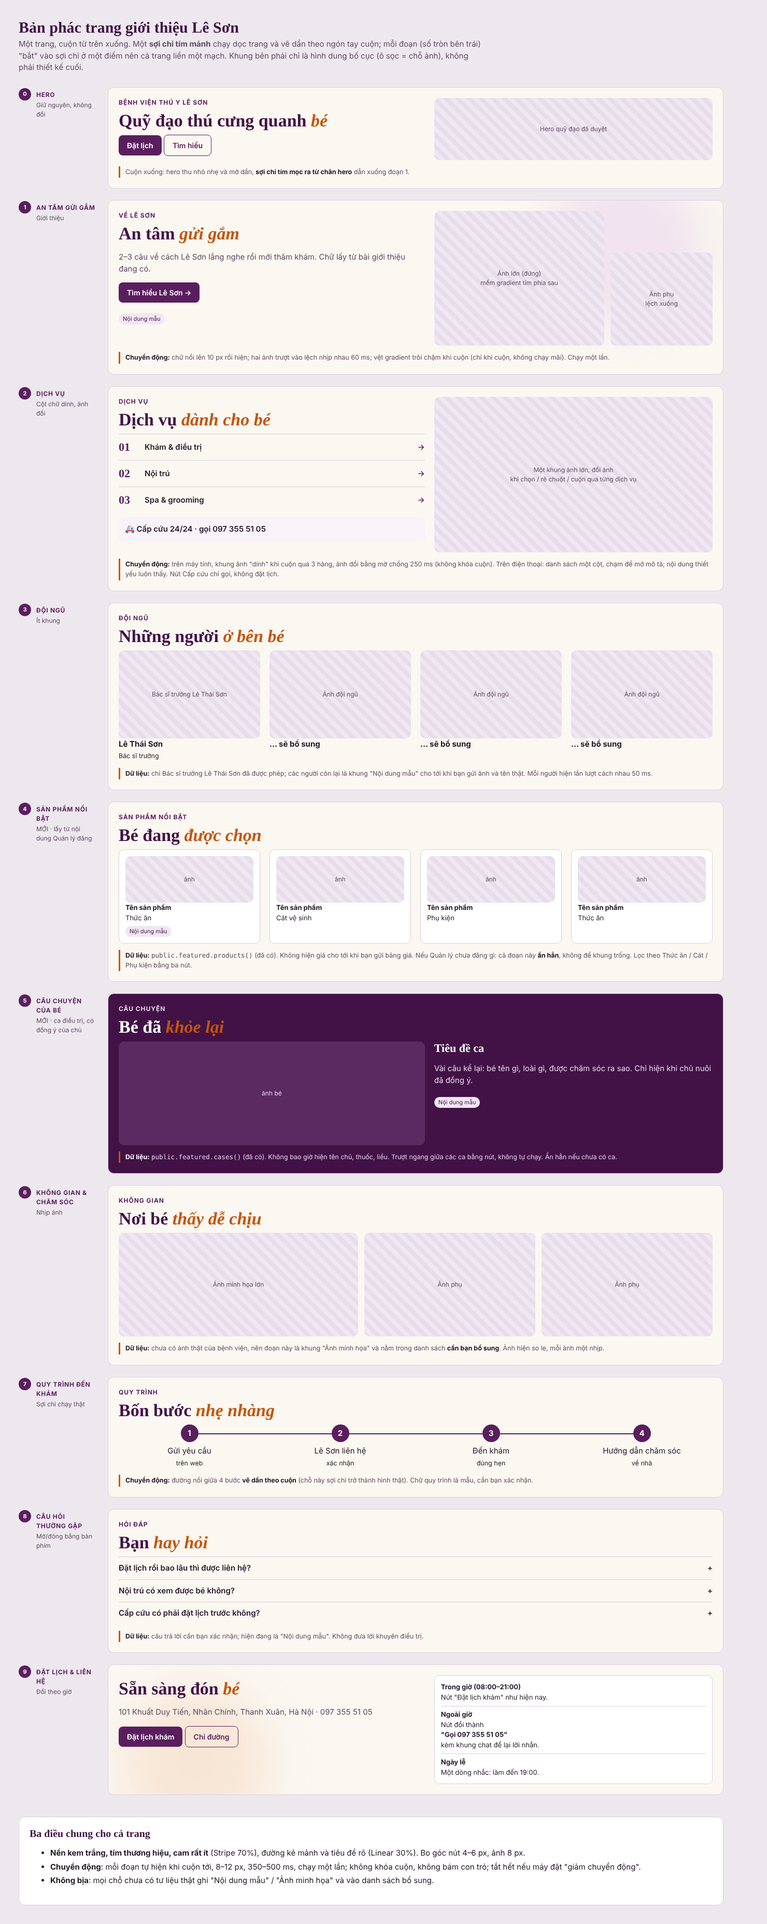
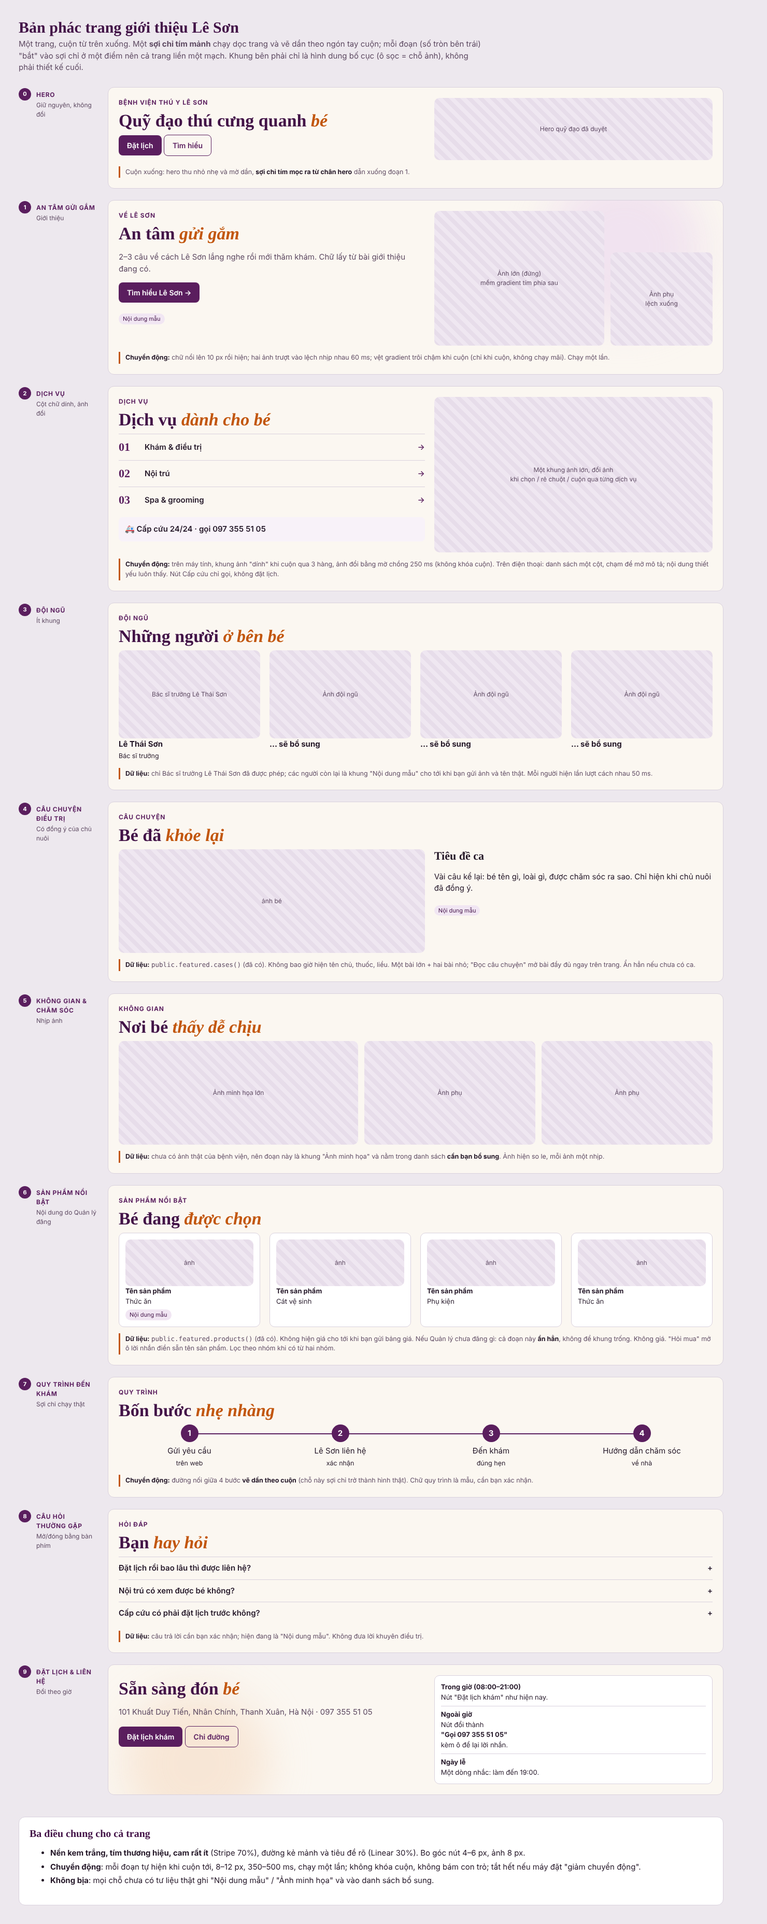
docs: part 6 intro website design and updated storyboard
Claude-Session: https://claude.ai/code/session_013xgtFbNtYrgX8b1A7NpkL4

diff --git a/docs/tham-khao/storyboard/storyboard.html b/docs/tham-khao/storyboard/storyboard.html
@@ -54,20 +54,20 @@ h1{font:600 30px Lora,Georgia,serif;margin:0 0 4px;color:var(--plum9)}.sub{color
 <div class="grid g4"><div><div class="ph" style="min-height:170px">Bác sĩ trưởng Lê Thái Sơn</div><b>Lê Thái Sơn</b><br><small>Bác sĩ trưởng</small></div><div><div class="ph" style="min-height:170px">Ảnh đội ngũ</div><b>… sẽ bổ sung</b></div><div><div class="ph" style="min-height:170px">Ảnh đội ngũ</div><b>… sẽ bổ sung</b></div><div><div class="ph" style="min-height:170px">Ảnh đội ngũ</div><b>… sẽ bổ sung</b></div></div>
 <div class="note"><b>Dữ liệu:</b> chỉ Bác sĩ trưởng Lê Thái Sơn đã được phép; các người còn lại là khung "Nội dung mẫu" cho tới khi bạn gửi ảnh và tên thật. Mỗi người hiện lần lượt cách nhau 50 ms.</div></div></div>
 
-<div class="beat"><div class="tag" data-n="4">Sản phẩm nổi bật<small>MỚI · lấy từ nội dung Quản lý đăng</small></div>
-<div class="panel"><div class="eyebrow">Sản phẩm nổi bật</div><div class="h">Bé đang <em>được chọn</em></div>
-<div class="grid g4"><div class="mini"><div class="ph" style="min-height:90px">ảnh</div><b>Tên sản phẩm</b>Thức ăn<br><span class="sample">Nội dung mẫu</span></div><div class="mini"><div class="ph" style="min-height:90px">ảnh</div><b>Tên sản phẩm</b>Cát vệ sinh</div><div class="mini"><div class="ph" style="min-height:90px">ảnh</div><b>Tên sản phẩm</b>Phụ kiện</div><div class="mini"><div class="ph" style="min-height:90px">ảnh</div><b>Tên sản phẩm</b>Thức ăn</div></div>
-<div class="note"><b>Dữ liệu:</b> <code>public.featured.products()</code> (đã có). Không hiện giá cho tới khi bạn gửi bảng giá. Nếu Quản lý chưa đăng gì: cả đoạn này <b>ẩn hẳn</b>, không để khung trống. Lọc theo Thức ăn / Cát / Phụ kiện bằng ba nút.</div></div></div>
+<div class="beat"><div class="tag" data-n="4">Câu chuyện điều trị<small>Có đồng ý của chủ nuôi</small></div>
+<div class="panel"><div class="eyebrow" >Câu chuyện</div><div class="h" >Bé đã <em>khỏe lại</em></div>
+<div class="grid g2"><div class="ph" style="min-height:200px;">ảnh bé</div><div><b style="font:600 22px Lora,serif">Tiêu đề ca</b><p >Vài câu kể lại: bé tên gì, loài gì, được chăm sóc ra sao. Chỉ hiện khi chủ nuôi đã đồng ý.</p><span class="sample">Nội dung mẫu</span></div></div>
+<div class="note" ><b >Dữ liệu:</b> <code>public.featured.cases()</code> (đã có). Không bao giờ hiện tên chủ, thuốc, liều. Một bài lớn + hai bài nhỏ; "Đọc câu chuyện" mở bài đầy đủ ngay trên trang. Ẩn hẳn nếu chưa có ca.</div></div></div>
 
-<div class="beat"><div class="tag" data-n="5">Câu chuyện của bé<small>MỚI · ca điều trị, có đồng ý của chủ</small></div>
-<div class="panel dark"><div class="eyebrow" style="color:#E9D3EE">Câu chuyện</div><div class="h" style="color:#fff">Bé đã <em>khỏe lại</em></div>
-<div class="grid g2"><div class="ph" style="min-height:200px;background:#5b2a60;color:#E9D3EE">ảnh bé</div><div><b style="font:600 22px Lora,serif">Tiêu đề ca</b><p style="color:#E9D3EE">Vài câu kể lại: bé tên gì, loài gì, được chăm sóc ra sao. Chỉ hiện khi chủ nuôi đã đồng ý.</p><span class="sample">Nội dung mẫu</span></div></div>
-<div class="note" style="color:#E9D3EE"><b style="color:#fff">Dữ liệu:</b> <code>public.featured.cases()</code> (đã có). Không bao giờ hiện tên chủ, thuốc, liều. Trượt ngang giữa các ca bằng nút, không tự chạy. Ẩn hẳn nếu chưa có ca.</div></div></div>
-
-<div class="beat"><div class="tag" data-n="6">Không gian &amp; chăm sóc<small>Nhịp ảnh</small></div>
+<div class="beat"><div class="tag" data-n="5">Không gian &amp; chăm sóc<small>Nhịp ảnh</small></div>
 <div class="panel"><div class="eyebrow">Không gian</div><div class="h">Nơi bé <em>thấy dễ chịu</em></div>
 <div style="display:grid;grid-template-columns:1.4fr 1fr 1fr;gap:12px"><div class="ph" style="min-height:200px">Ảnh minh họa lớn</div><div class="ph">Ảnh phụ</div><div class="ph">Ảnh phụ</div></div>
 <div class="note"><b>Dữ liệu:</b> chưa có ảnh thật của bệnh viện, nên đoạn này là khung "Ảnh minh họa" và nằm trong danh sách <b>cần bạn bổ sung</b>. Ảnh hiện so le, mỗi ảnh một nhịp.</div></div></div>
+
+<div class="beat"><div class="tag" data-n="6">Sản phẩm nổi bật<small>Nội dung do Quản lý đăng</small></div>
+<div class="panel"><div class="eyebrow">Sản phẩm nổi bật</div><div class="h">Bé đang <em>được chọn</em></div>
+<div class="grid g4"><div class="mini"><div class="ph" style="min-height:90px">ảnh</div><b>Tên sản phẩm</b>Thức ăn<br><span class="sample">Nội dung mẫu</span></div><div class="mini"><div class="ph" style="min-height:90px">ảnh</div><b>Tên sản phẩm</b>Cát vệ sinh</div><div class="mini"><div class="ph" style="min-height:90px">ảnh</div><b>Tên sản phẩm</b>Phụ kiện</div><div class="mini"><div class="ph" style="min-height:90px">ảnh</div><b>Tên sản phẩm</b>Thức ăn</div></div>
+<div class="note"><b>Dữ liệu:</b> <code>public.featured.products()</code> (đã có). Không hiện giá cho tới khi bạn gửi bảng giá. Nếu Quản lý chưa đăng gì: cả đoạn này <b>ẩn hẳn</b>, không để khung trống. Không giá. "Hỏi mua" mở ô lời nhắn điền sẵn tên sản phẩm. Lọc theo nhóm khi có từ hai nhóm.</div></div></div>
 
 <div class="beat"><div class="tag" data-n="7">Quy trình đến khám<small>Sợi chỉ chạy thật</small></div>
 <div class="panel"><div class="eyebrow">Quy trình</div><div class="h">Bốn bước <em>nhẹ nhàng</em></div>
@@ -82,7 +82,7 @@ h1{font:600 30px Lora,Georgia,serif;margin:0 0 4px;color:var(--plum9)}.sub{color
 <div class="beat"><div class="tag" data-n="9">Đặt lịch &amp; liên hệ<small>Đổi theo giờ</small></div>
 <div class="panel"><div class="blob" style="width:280px;height:280px;background:#F5D9C0;left:30px;bottom:-80px"></div>
 <div class="grid g2"><div><div class="h">Sẵn sàng đón <em>bé</em></div><p style="color:var(--ink6)">101 Khuất Duy Tiến, Nhân Chính, Thanh Xuân, Hà Nội · 097 355 51 05</p><span class="btn">Đặt lịch khám</span> <span class="btn ghost">Chỉ đường</span></div>
-<div class="mini"><b>Trong giờ (08:00–21:00)</b>Nút "Đặt lịch khám" như hiện nay.<hr style="border:0;border-top:1px solid var(--line)"><b>Ngoài giờ</b>Nút đổi thành <b>"Gọi 097 355 51 05"</b> kèm khung chat để lại lời nhắn.<hr style="border:0;border-top:1px solid var(--line)"><b>Ngày lễ</b>Một dòng nhắc: làm đến 19:00.</div></div></div></div>
+<div class="mini"><b>Trong giờ (08:00–21:00)</b>Nút "Đặt lịch khám" như hiện nay.<hr style="border:0;border-top:1px solid var(--line)"><b>Ngoài giờ</b>Nút đổi thành <b>"Gọi 097 355 51 05"</b> kèm ô để lại lời nhắn.<hr style="border:0;border-top:1px solid var(--line)"><b>Ngày lễ</b>Một dòng nhắc: làm đến 19:00.</div></div></div></div>
 
 </div>
 <div class="legend"><h2>Ba điều chung cho cả trang</h2><ul><li><b>Nền kem trắng, tím thương hiệu, cam rất ít</b> (Stripe 70%), đường kẻ mảnh và tiêu đề rõ (Linear 30%). Bo góc nút 4–6 px, ảnh 8 px.</li><li><b>Chuyển động</b>: mỗi đoạn tự hiện khi cuộn tới, 8–12 px, 350–500 ms, chạy một lần; không khóa cuộn, không bám con trỏ; tắt hết nếu máy đặt "giảm chuyển động".</li><li><b>Không bịa</b>: mọi chỗ chưa có tư liệu thật ghi "Nội dung mẫu" / "Ảnh minh họa" và vào danh sách bổ sung.</li></ul></div>

diff --git a/docs/superpowers/specs/2026-10-22-phan-6-trang-gioi-thieu-design.md b/docs/superpowers/specs/2026-10-22-phan-6-trang-gioi-thieu-design.md
@@ -1,0 +1,97 @@
+# Phần 6 — Làm lại trang giới thiệu (thiết kế)
+
+Ngày: 22/10/2026 · Nhánh: `claude/giao-dien` · Trạng thái: **chờ chủ dự án duyệt bản viết**.
+
+Nguồn quyết định: R43 (hướng thiết kế), `docs/tham-khao/prompt-thiet-ke-web-gioi-thieu-2026-10-21.md`, tệp tư vấn `Loi_khuyen_thiet_ke_web_Le_Son.md` (22/10), bản phác `docs/tham-khao/storyboard/storyboard.png`, và các câu trả lời của chủ dự án ngày 22/10 (mục 2).
+
+## 1. Mục tiêu
+
+Một trang giới thiệu cuộn từ hero xuống, **kể một câu chuyện liền mạch**: bệnh viện là ai, làm gì, ai chăm bé, bé đã được chăm thế nào, bước tiếp theo là gì. Phong cách Stripe 70% + Linear 30%; chuyển động tinh tế; không bịa tư liệu.
+
+Hero hiện tại giữ nguyên (logo, route, chức năng). Không sửa khu khách và khu nhân viên.
+
+## 2. Quyết định đã chốt (chủ dự án, 22/10/2026)
+
+1. Kiểu **scrollytelling**, không khóa cuộn.
+2. **Một màu nền cho cả trang** (không có đoạn nền tím đậm). Chỉ **một quầng tím rất nhạt sau ảnh chính ở đoạn "An tâm gửi gắm"** và **sợi chỉ tím mảnh** nối các đoạn; không có quầng màu ở nơi khác.
+3. Thứ tự: Hero → Giới thiệu → Dịch vụ → Đội ngũ → Câu chuyện điều trị → Không gian → Sản phẩm nổi bật → Quy trình → Hỏi đáp → Đặt lịch và liên hệ.
+4. **Sản phẩm nổi bật** (không phải "bán chạy"): không hiện giá, không nhãn bán chạy; nút **Hỏi mua** mở ô để lại lời nhắn có sẵn "Hỏi mua: <tên>".
+5. **Câu chuyện điều trị**: ba bài (một lớn, hai nhỏ); **Đọc câu chuyện** mở bài đầy đủ ngay trên trang; chưa có trang danh sách, chưa có ngày đăng và mốc cập nhật (đợt sau).
+6. **Khung chat ngoài giờ** là ô để lại lời nhắn (tên, số điện thoại, nội dung) gửi thành yêu cầu liên hệ cho nhân viên; không chat trực tiếp.
+7. **Màn "Nội dung trang giới thiệu" cho Quản lý** (đăng sản phẩm và câu chuyện) làm **sau trang công khai và trước khi gửi HTML** (lựa chọn A). Gửi HTML một lần, một tệp, khi xong cả hai.
+
+## 3. Phạm vi và chia đợt
+
+| Đợt | Nội dung | Phụ thuộc |
+|---|---|---|
+| **6A** | Trang công khai: nền chung, sợi chỉ, 9 đoạn, các thành phần dùng chung | Chỉ dữ liệu có sẵn (`public.featured.*`, `public.bookings.holidays`) |
+| **6B** | Đặt lịch ngoài giờ và ngày lễ: nút Gửi đổi thành nút gọi, ô để lại lời nhắn, ghi chú ngày lễ ở `/dat-lich` và `/khach-hang/dat-lich`; ô lời nhắn dùng cho "Hỏi mua" và cho cuối trang chủ | **Cần nhánh dữ liệu thêm API** (mục 7) |
+| **6C** | Màn "Nội dung trang giới thiệu" trong khu nhân viên (`content.publish`) | Dữ liệu đã có (`staff.content.*`) |
+| **6D** | Hộp thoại tải video nội trú: chữ theo 100 MB, phát 15 giây đầu, tự tắt tiếng | Dữ liệu đã có |
+
+Mỗi đợt có kế hoạch và kiểm tra riêng; 6A làm trước. **Không** làm trong phần 6: trang chi tiết câu chuyện/sản phẩm, "Xem tất cả", giỏ hàng, giá, nhãn bán chạy, phụ phí lễ, thanh gọi cố định trên đầu trang (đã đề xuất, chủ dự án chưa trả lời, giữ ngoài phạm vi).
+
+## 4. Ngôn ngữ thị giác (chỉ áp dụng cho phần mới của trang công khai)
+
+- Token riêng cho trang công khai mới (tiền tố `--pub-*` trong `src/styles/tokens.css`, dùng trong một lớp bọc `[data-pub]` chỉ gắn vào các đoạn mới) để **không đổi** hero, khu khách, khu nhân viên.
+  - Nền `#F2EFF3` · tím mận `#53165C` · chữ `#291D34` · chữ phụ `#675E6D` (kiểm tra ≥ 4,5:1 trên nền) · đường kẻ `#D9D1DD` · bề mặt phụ `#FAF8FB` · cam `#C95B0A` rất ít.
+- Chữ: Lora cho tiêu đề giàu cảm xúc (32–40 px máy tính, 26–30 px điện thoại, có chữ nghiêng cam cho từ nhấn); Be Vietnam Pro cho phần còn lại (nội dung 16–18 px, tối thiểu 16 px trên điện thoại); nhãn IN HOA đậm giãn chữ ≤ 0,08em; số luôn Be Vietnam Pro (`.num`).
+- Hình dạng: **nút 4–6 px, ảnh 0–8 px**; hạn chế nút bầu dục, thẻ lồng thẻ, bóng. Phẳng, đường kẻ mảnh, số thứ tự 01–03.
+- Icon: Phosphor Duotone như hiện tại, ít, chỉ chức năng. Ảnh thật quan trọng hơn icon.
+- Kính mờ: tối đa **một chú thích trên ảnh chính** của đoạn Giới thiệu (và có nền đặc thay thế khi không hỗ trợ blur). Không đặt chữ quan trọng lên kính.
+- Khoảng cách: container ≤ 1200 px; lề 16–20 px điện thoại, 24–40 px máy tính; giữa các đoạn 72–96 px máy tính, 40–56 px điện thoại.
+
+## 5. Chuyển động
+
+- Mỗi đoạn tự hiện khi vào màn hình, chạy **một lần**: mờ dần + dịch 8–12 px, 350–500 ms; nhóm nhỏ lệch 40–70 ms; không đợi đoạn trước. Dùng `preset('enterList')` hiện có khi vừa, thêm preset mới trong `src/ui/motion.ts` khi cần (có test).
+- **Sợi chỉ**: một đường mảnh dọc trang vẽ dần theo vị trí cuộn (`useScroll` + độ dài đường), mỗi đoạn "bắt" vào sợi chỉ ở nhãn tiêu đề. Trên điện thoại là đường mảnh sát lề trái; nếu quá chật thì ẩn, nội dung không phụ thuộc vào nó. Ở đoạn Quy trình, đường nối 4 bước vẽ theo cuộn.
+- Quầng tím nhạt sau ảnh chính trôi rất chậm **chỉ khi cuộn** (không chạy nền liên tục).
+- Hover/focus hàng dịch vụ 150–200 ms (nền đổi, mũi tên dịch 3–4 px); ảnh dịch vụ đổi bằng chồng mờ 200–300 ms; FAQ mở/đóng 180–250 ms.
+- Không băng chuyền tự chạy, không hiệu ứng bám con trỏ, không đếm số tăng dần, không nút nhấp nháy.
+- `prefers-reduced-motion` (và tùy chọn "Luôn giảm"): bỏ dịch chuyển, bỏ lệch nhịp, bỏ sợi chỉ vẽ dần (hiện sẵn đầy đủ), ảnh đổi tức thì; nội dung vẫn đọc được. Nội dung **không bao giờ ẩn mặc định** nếu script lỗi.
+
+## 6. Từng đoạn (6A)
+
+Mọi đoạn là một `<section>` có `aria-labelledby`, một `h2`, nhãn IN HOA ngắn. Neo cuộn hiện có (`/gioi-thieu`, `/dich-vu`, `/lien-he`) giữ nguyên; thêm neo cho đoạn mới nhưng **không thêm route rỗng**. Thanh điều hướng đánh dấu mục hiện tại theo đoạn đang xem (mở rộng `useActiveSection`).
+
+1. **Giới thiệu "An tâm gửi gắm"** (`#gioi-thieu`). Máy tính chia 5/7: nhãn VỀ LÊ SƠN, tiêu đề, 2–3 câu (lấy từ chữ đang có), nút "Tìm hiểu Lê Sơn →" (cuộn tới Dịch vụ), ghi "Nội dung mẫu". Bên phải ảnh lớn đứng + ảnh phụ lệch xuống, hai khoảnh khắc khác nhau (dùng ảnh minh họa có sẵn, ghi "Ảnh minh họa"); một chú thích kính mờ ngắn. Điện thoại: một cột, chữ → nút → ảnh; ảnh phụ bỏ nếu kéo dài trang.
+2. **Dịch vụ** (`#dich-vu`). Danh sách đánh số 01 Khám & điều trị · 02 Nội trú · 03 Spa & grooming: tên, mô tả một câu, mũi tên, ngăn bằng đường kẻ. Máy tính: danh sách trái, **một khung ảnh dính** phải, đổi ảnh khi chọn/rê/focus (không tự điều hướng khi chỉ focus). Mũi tên là liên kết tới `/dat-lich?dich-vu=<khóa>` (như hiện tại). Điện thoại: một cột, chạm một hàng để mở mô tả và ba mục con; tên và mô tả luôn thấy. Dải **Cấp cứu 24/24** giữ như hiện tại (chỉ nút gọi, không đặt lịch), tách khỏi "giờ khám 08:00–21:00".
+3. **Đội ngũ** (`#doi-ngu`). Bác sĩ trưởng Lê Thái Sơn (ảnh thật, chữ đã duyệt). Các vị trí khác là khung "Nội dung mẫu" cho tới khi có ảnh và tên thật; không tạo tên, bằng cấp.
+4. **Câu chuyện điều trị** (`#cau-chuyen`). Dữ liệu `public.featured.cases()`. Nhãn CÂU CHUYỆN ĐIỀU TRỊ, tiêu đề "Mỗi hành trình, một sự đồng hành." Máy tính: bài đầu chiếm ~2/3, hai bài sau xếp dọc; điện thoại một cột. Mỗi bài: ảnh, tiêu đề, 2–3 dòng đầu của nội dung, "Đọc câu chuyện". Có 1 hoặc 2 bài thì bố cục co lại; **0 bài thì cả đoạn ẩn** (kể cả khỏi sợi chỉ). Bấm "Đọc câu chuyện" mở **hộp thoại đọc** (đóng bằng Esc/nút, trả focus về nút đã bấm) với tiêu đề, nội dung đầy đủ, tên bé + loài, "Nội dung mẫu" khi `sample`. Không bao giờ hiện tên chủ, thuốc, liều, giờ tiêm. Không dùng ảnh do máy tạo làm bằng chứng cho ca thật.
+5. **Không gian & chăm sóc** (`#khong-gian`). Một ảnh chính và hai ảnh phụ so le, chú thích ngắn đúng nội dung ảnh. Chưa có ảnh thật nên dùng ảnh minh họa có sẵn, ghi "Ảnh minh họa", và đoạn này **nằm trong danh sách bạn cần bổ sung**.
+6. **Sản phẩm nổi bật** (`#san-pham`). Dữ liệu `public.featured.products()`; tối đa 6, bốn một hàng máy tính, hai cột điện thoại (một cột khi chữ rất lớn). Ảnh cùng tỷ lệ, nền sáng; tên, nhóm (Thức ăn / Cát vệ sinh / Phụ kiện), ghi chú; **không giá**. Ba nút lọc theo nhóm chỉ hiện khi có từ hai nhóm. **Hỏi mua** mở ô lời nhắn (6B) điền sẵn "Hỏi mua: <tên>"; khi 6B chưa có thì nút đổi thành gọi hotline. **0 sản phẩm thì ẩn cả đoạn.** Không giỏ hàng, không carousel.
+7. **Quy trình đến khám** (`#quy-trinh`). Bốn bước: Gửi yêu cầu → Lê Sơn liên hệ xác nhận → Đến khám → Hướng dẫn chăm sóc. Đường nối vẽ theo cuộn. Ghi "Nội dung mẫu" cho tới khi bạn xác nhận quy trình thật.
+8. **Hỏi đáp** (`#hoi-dap`). Accordion bằng `button` + `aria-expanded` + `aria-controls`, điều khiển bằng bàn phím; ba câu mẫu về đặt lịch, nội trú, cấp cứu; "Nội dung mẫu"; không lời khuyên điều trị.
+9. **Đặt lịch & liên hệ** (`#lien-he`, giữ neo). Địa chỉ, hotline, giờ **08:00–21:00** tách khỏi **Cấp cứu 24/24**, Chỉ đường, Facebook (nguyên văn như CLAUDE.md). **Theo giờ** (đồng hồ demo `system.now()`, ngày lễ từ `public.bookings.holidays()`): trong giờ → nút "Đặt lịch khám" (`/dat-lich`); ngoài giờ → "Gọi 097 355 51 05" cùng ô lời nhắn (6B); ngày lễ → một dòng "Hôm nay Lê Sơn làm đến 19:00". Hai nút **"Đặt lịch khám"** và **"Đăng nhập theo dõi bé"** khác tên, khác mục đích; lối vào cổng khách hiện (thay `AccountTeaser`) dễ thấy, tách khỏi nội dung giới thiệu.
+
+Sơ đồ minh họa vị trí hiện có (`MapArt`) giữ, đổi màu theo token mới.
+
+## 7. Dữ liệu và yêu cầu gửi nhánh dữ liệu
+
+6A chỉ dùng hợp đồng hiện có. **Việc gửi nhánh `claude/du-lieu` (ghi vào mục "Yêu cầu gửi nhánh kia" của `PROGRESS.md` khi bắt đầu 6A):**
+
+1. `public.inquiries.submit({ name, phone, text, about? })` → tạo một yêu cầu liên hệ nhân viên thấy trong danh sách Yêu cầu (loại "Lời nhắn", không phải đặt lịch), kiểm tra tên/điện thoại/nội dung, chống gửi trùng, giới hạn độ dài; không cần giờ làm việc. `about` là tên sản phẩm khi "Hỏi mua".
+2. (Đợt sau, không chặn 6A) câu chuyện có `publishedAt` và mốc cập nhật kết quả; trang danh sách.
+
+Cho tới khi (1) xong, 6A hiện nút gọi thay cho ô lời nhắn; 6B mới bật ô.
+
+## 8. Trợ năng, hiệu năng, kiểm tra
+
+- Bàn phím đủ cho mọi điều khiển; hộp thoại đọc bẫy và trả focus; accordion và danh sách dịch vụ có tên cho trình đọc màn hình; tương phản chữ ≥ 4,5:1 (kể cả chữ phụ `#675E6D` trên nền `#F2EFF3` — đo thật, nếu thiếu thì sậm lên); điện thoại 320 px không cuộn ngang; zoom 200% không đè chữ; không dùng chiều cao cố định theo màn hình.
+- Ảnh có `alt`, `width`/`height`, `loading="lazy"` dưới màn hình đầu; không video nền; không thêm thư viện (dùng `motion` đang có); tệp một-HTML vẫn trong ngân sách dung lượng (`npm run budget` trong `verify`).
+- Chữ hiển thị tiếng Việt; "bạn", "Lê Sơn", "bé"; không "quý khách", không "lễ tân"; không gạch ngang dài trong chữ mới; "24/24" chỉ cho Cấp cứu; mọi chỗ tự đặt ghi "Nội dung mẫu" / "Ảnh minh họa".
+- Kiểm thử (viết trước): e2e cho từng đoạn ở 1440/390/320 (có đúng thứ tự, đoạn trống ẩn, lọc sản phẩm, mở/đóng câu chuyện và trả focus, accordion bằng phím, nút theo giờ/ngày lễ với đồng hồ demo, giảm chuyển động không còn dịch chuyển), axe trên cả trang, neo và thanh điều hướng đánh dấu đúng, e2e cũ của hero và trang chủ vẫn qua; test đơn vị cho hàm chọn nút theo giờ, sắp bố cục câu chuyện (0/1/2/3 bài), lọc nhóm sản phẩm.
+
+## 9. Rủi ro đã thấy trước (đưa vào Review Focus của kế hoạch)
+
+1. Quầng và sợi chỉ làm tràn ngang hoặc kéo lệch bố cục ở 320 px.
+2. Dữ liệu nổi bật rỗng, 1 hoặc 2 mục, tên rất dài, ảnh bị mất (`imageKey` không còn) — đoạn không vỡ, không khung trống.
+3. Nội dung mẫu/ảnh minh họa quên gắn nhãn; chữ cấm (quý khách, lễ tân, 24/24 ngoài Cấp cứu).
+4. Nút đặt lịch/gọi sai ở sát 21:00, ngày lễ, Chủ nhật; đồng hồ demo khác giờ thật.
+5. Hộp thoại đọc: Esc, trả focus, cuộn nền, chữ rất dài.
+6. Đổi `useActiveSection` làm thanh điều hướng đánh dấu sai khi vào thẳng `/dich-vu`, `/lien-he`.
+7. Token `--pub-*` rò sang khu khách/nhân viên.
+
+## 10. Việc cần chủ dự án bổ sung (để thay "Nội dung mẫu")
+
+Ảnh và tên thật của đội ngũ; ảnh thật khu khám, chăm sóc, nội trú; quy trình đến khám thật; câu trả lời cho các câu hỏi thường gặp; bảng giá và quy cách sản phẩm; bài giới thiệu chính thức; các ca điều trị đã được chủ nuôi đồng ý và bác sĩ duyệt.
